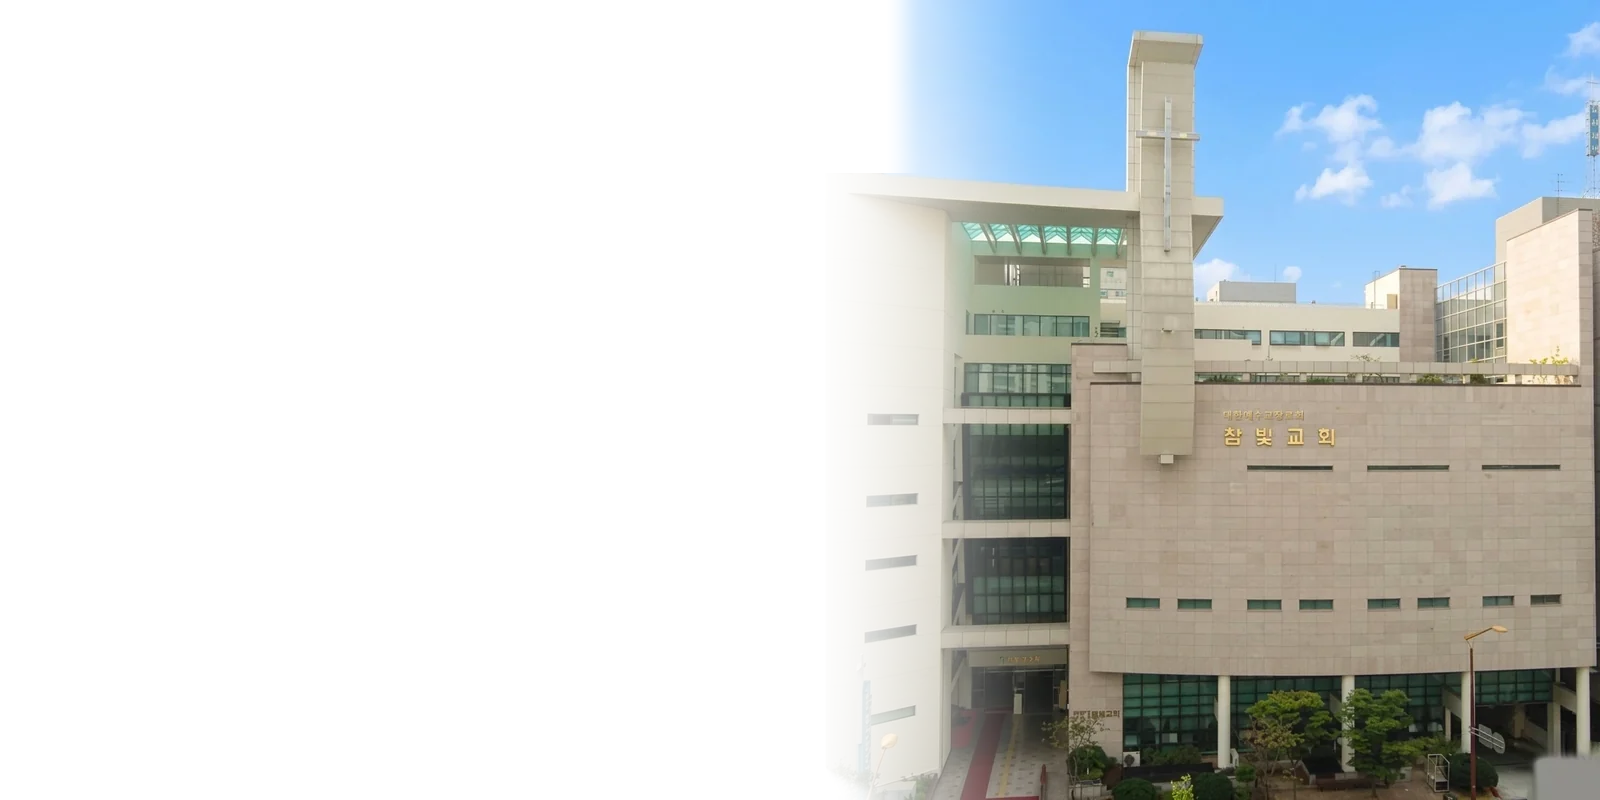
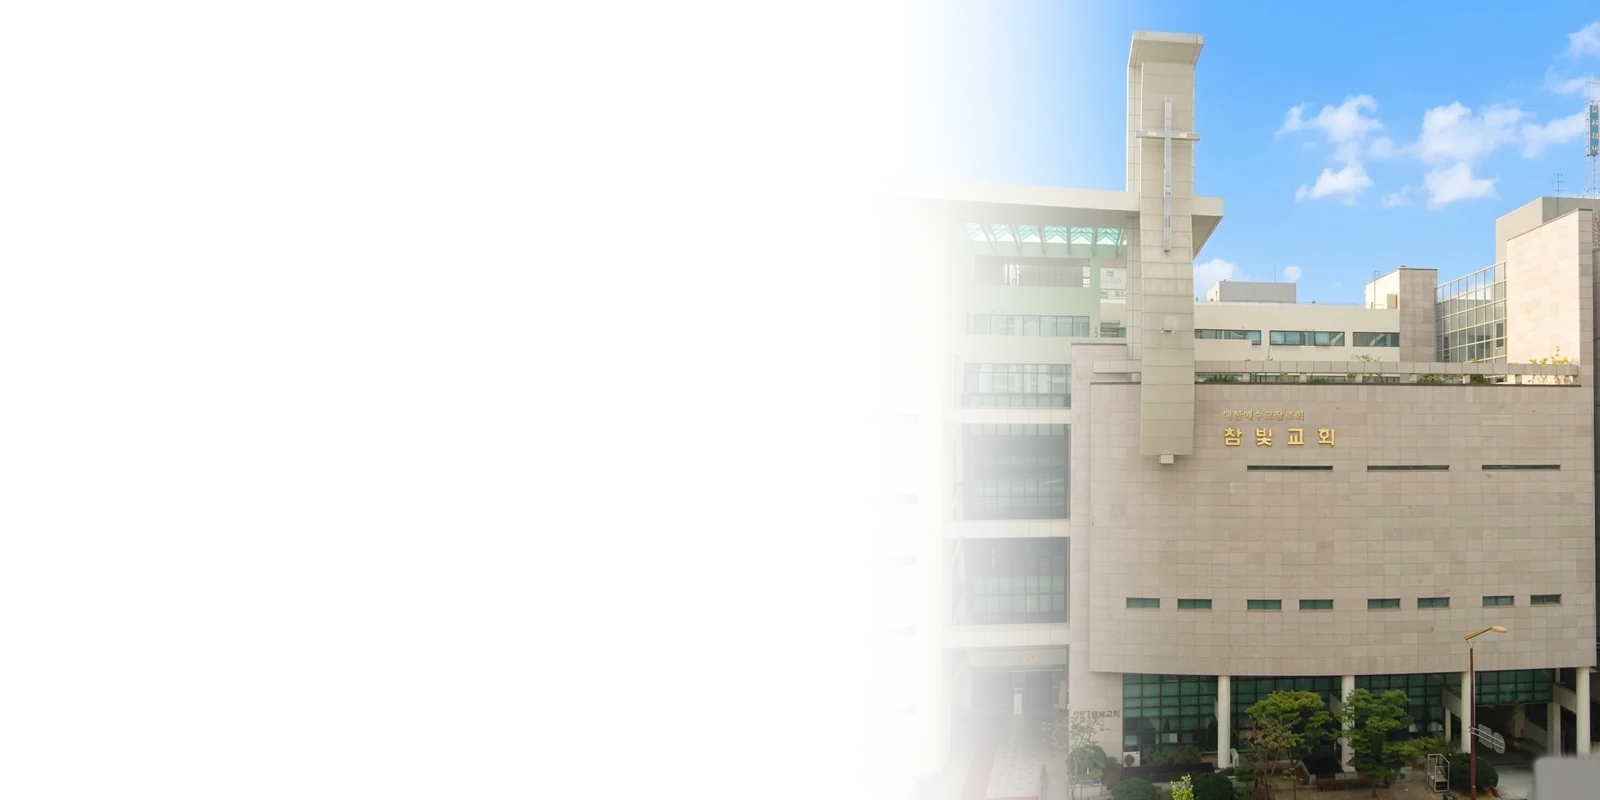
다시개선

Changed region(s): [[0.5312, 0.0, 0.75, 1.0]]

diff --git a/frontend/scripts/build_visit_hero.py b/frontend/scripts/build_visit_hero.py
@@ -39,7 +39,9 @@ W, H = 1600, 800
 # 자산은 RGBA: 교회만 불투명, 왼쪽 동 벽에서 FADE 폭만큼 알파가 0→1 로 오르고 그 왼쪽은 완전 투명.
 # 배경(남색/하늘 그라데이션·글로우·링)은 전부 CSS(Visit.css .visit-hero-stage)가 그린다 →
 # 사진 하늘을 합성해 붙이던 v2 의 '색 안 맞는 이음새' 문제가 구조적으로 사라진다.
-FADE = (-30, 250)              # 알파 램프 시작/끝(교회 왼쪽 모서리 기준 px). 끝은 십자가 탑 왼쪽(~x0+300) 전
+FADE = (-20, 400)              # 알파 램프 시작/끝(교회 왼쪽 모서리 기준 px). 십자가 탑(x0+305~375)까지 걸쳐 길게 —
+                               # 짧으면(v3 초판 250px) '반반으로 잘린' 경계로 읽힌다는 피드백(2026-09-03)
+FADE_GAMMA = 1.8               # 램프 곡선: 왼쪽 끝은 거의 투명하게 오래 머물다 오른쪽으로 갈수록 점점 또렷하게
 NIGHT_DIM = 0.82               # 밤 사진은 살짝 눌러 남색 배경에 앉힌다(불 켜진 창의 대비는 유지)
 BRANCH_BOX = (0, 0, 880, 480)  # 나뭇가지 실루엣 별도 레이어(branch-night.webp) 크롭 — 카드 왼쪽 위에 CSS 로 얹는다
 WING_X = 8                     # 왼쪽 동 벽의 실제 모서리(원본 x). 그 왼쪽은 이웃 건물
@@ -179,6 +181,53 @@ def build_branch_layer():
     print(f'{dest.name}: {out.size}')
 
 
+SKY_SIZE = (1600, 800)
+
+
+def _smooth_noise(w, h, cells, rng):
+    """저해상 난수를 바이큐빅으로 키운 부드러운 노이즈(0~1)."""
+    small = rng.random((max(2, h // cells), max(2, w // cells))).astype(np.float32)
+    return np.asarray(Image.fromarray((small * 255).astype(np.uint8)).resize((w, h), Image.BICUBIC)).astype(np.float32) / 255
+
+
+def build_sky_day(seed=3):
+    """라이트 히어로 배경 — 레퍼런스(2026-09-03): 왼쪽은 흰 안개와 부드러운 구름 덩어리, 위·오른쪽으로 갈수록
+    맑은 파랑. 사진 하늘(오른쪽 위 ≈ #79bafc)과 색이 이어지도록 오른쪽 위를 그 계열로 맞춘다."""
+    W_, H_ = SKY_SIZE
+    rng = np.random.default_rng(seed)
+    yy, xx = np.mgrid[0:H_, 0:W_]
+    fx, fy = xx / W_, yy / H_
+
+    # 기본 하늘: 위쪽 진한 파랑 → 아래 옅게, 오른쪽이 왼쪽보다 조금 더 짙게
+    top = np.array([0x6e, 0xb4, 0xf4], np.float32)
+    low = np.array([0xc9, 0xe3, 0xfa], np.float32)
+    t = smoothstep(fy * 1.15) * (1 - 0.18 * (1 - fx))
+    base = top[None, None] * (1 - t[..., None]) + low[None, None] * t[..., None]
+
+    # 구름: 여러 스케일의 부드러운 노이즈를 합쳐 덩어리로, 아래·왼쪽에 많고 오른쪽 위는 맑게
+    n = (0.50 * _smooth_noise(W_, H_, 260, rng) + 0.30 * _smooth_noise(W_, H_, 120, rng)
+         + 0.14 * _smooth_noise(W_, H_, 55, rng) + 0.06 * _smooth_noise(W_, H_, 24, rng))
+    density = 0.35 + 0.65 * smoothstep((fy - 0.15) / 0.7) * (1 - 0.55 * smoothstep((fx - 0.45) / 0.5))
+    cloud = smoothstep((n - (0.62 - 0.30 * density)) / 0.28)
+    cloud = np.asarray(Image.fromarray((cloud * 255).astype(np.uint8)).filter(ImageFilter.GaussianBlur(9))).astype(np.float32) / 255
+    # 구름 아랫면은 아주 옅게 회청색으로 — 평면 흰 얼룩이 아니라 입체로 읽히게
+    shade = np.asarray(Image.fromarray((cloud * 255).astype(np.uint8)).filter(ImageFilter.GaussianBlur(28))).astype(np.float32) / 255
+    white = np.array([255, 255, 255], np.float32)
+    grey = np.array([0xd8, 0xe6, 0xf4], np.float32)
+    img = base * (1 - cloud[..., None]) + white[None, None] * cloud[..., None]
+    img = img * (1 - 0.18 * np.clip(shade - cloud, 0, 1)[..., None]) + grey[None, None] * 0.18 * np.clip(shade - cloud, 0, 1)[..., None]
+
+    # 왼쪽 햇살 안개: 글자가 앉는 왼쪽 가운데는 거의 흰색으로 — 레퍼런스의 '흰색에서 점점 푸르게'
+    haze = np.exp(-(((fx - 0.08) / 0.55) ** 2 + ((fy - 0.55) / 0.62) ** 2)) * 0.92
+    img = img * (1 - haze[..., None]) + white[None, None] * haze[..., None]
+
+    img += rng.normal(0, 0.7, img.shape)
+    out = Image.fromarray(np.clip(img, 0, 255).astype(np.uint8))
+    dest = VISIT / 'sky-day.webp'
+    out.save(dest, 'WEBP', quality=82, method=6)
+    print(f'{dest.name}: {out.size}')
+
+
 for key, path in SRC.items():
     im = remove_objects(Image.open(path).convert('RGB'), REMOVE_POLYS)
     scale = H / im.height
@@ -202,7 +251,7 @@ for key, path in SRC.items():
     gw = GROUND_FEATHER * smoothstep((yy - gy) / (H - gy))
     alpha = alpha * np.where(gw > 0, smoothstep(xx / np.maximum(gw, 1e-3)), 1)
     # 왼쪽 동이 배경에서 스며 나오는 램프 — 레퍼런스의 '건물이 안개/밤에서 떠오르는' 느낌
-    alpha = alpha * smoothstep((xx - FADE[0]) / (FADE[1] - FADE[0]))
+    alpha = alpha * smoothstep((xx - FADE[0]) / (FADE[1] - FADE[0])) ** FADE_GAMMA
 
     canvas = np.zeros((H, W, 4), np.float32)
     canvas[:, x0:, :3] = ch
@@ -214,3 +263,4 @@ for key, path in SRC.items():
     print(f'{dest.name}: {out.size}, church {cw}px ({cw / W:.0%}), fade x {x0 + FADE[0]}~{x0 + FADE[1]}')
 
 build_branch_layer()
+build_sky_day()
